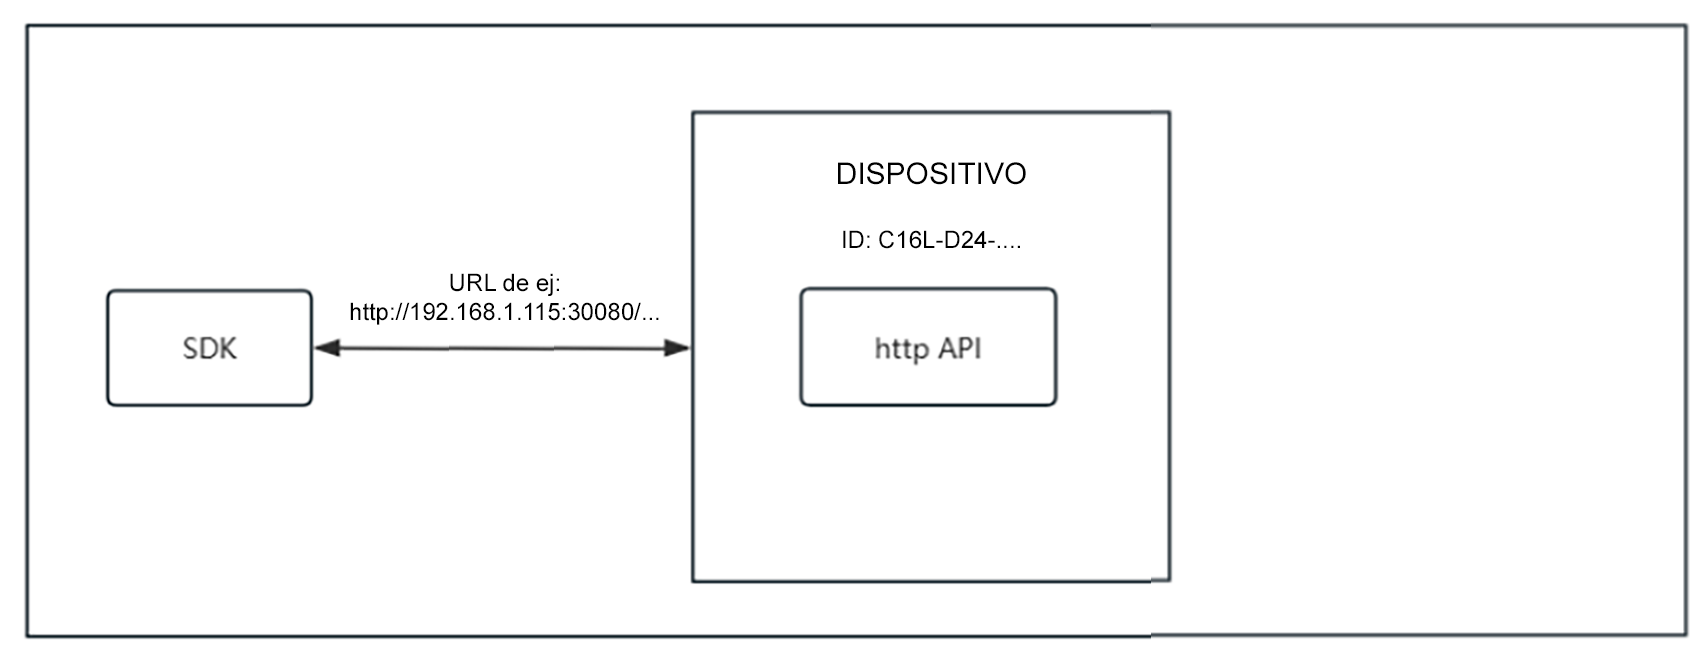
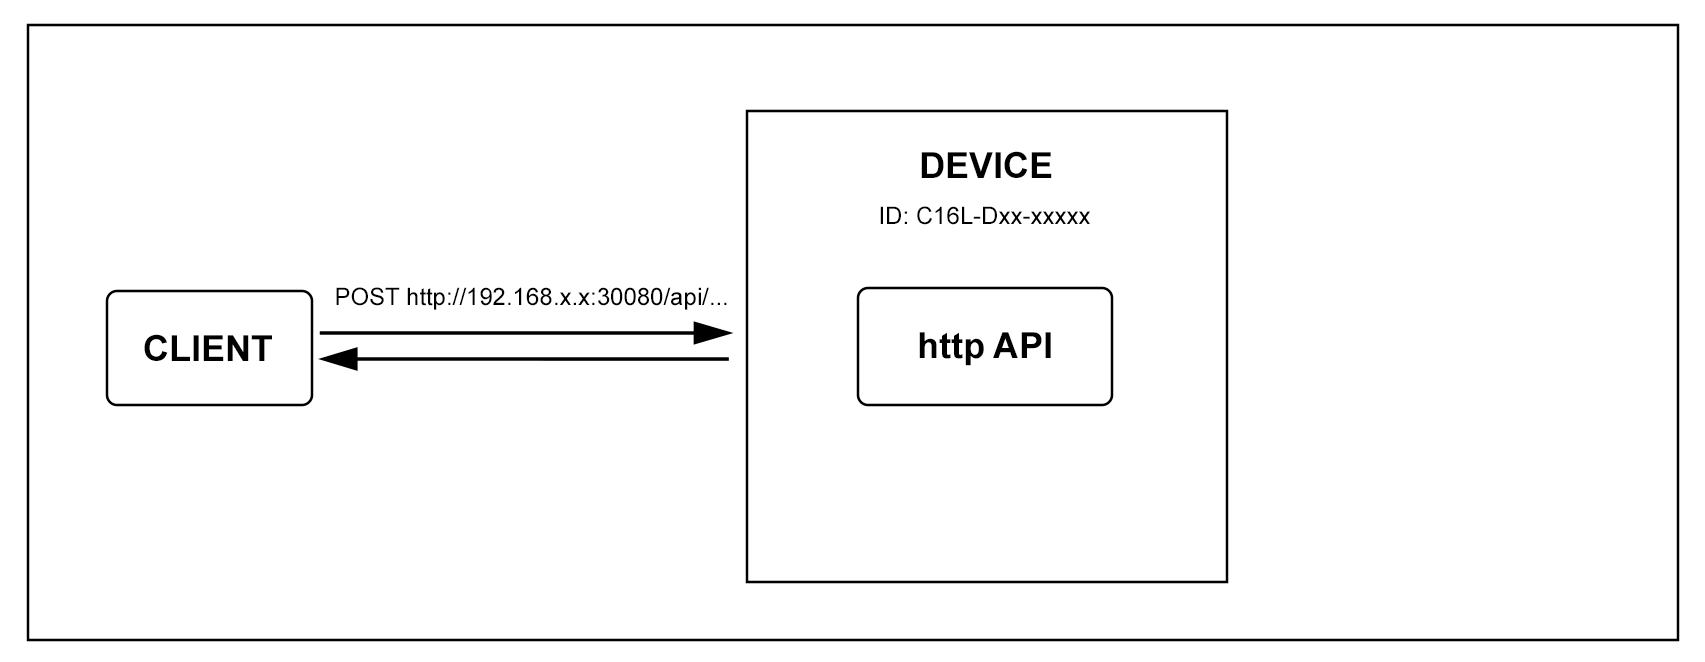
Various corrections

diff --git a/README.md b/README.md
@@ -1,6 +1,13 @@
 Documentación HTTP API para FULL COLOR SDK
 ---
 
+**Cambios recientes (04/06/2026)**
+- *API gateway ya disponible para instalar en su servidor*
+- Ya no es neceario un teléfono para el registro
+- Ejemplos para Postman corregidos
+- Correcciones varias
+
+
 # Contenido
 1. [Introducción](#1-introducción)
 2. [Cómo empezar a testear la API](#2-cómo-empezar-a-testear-la-api)
@@ -37,13 +44,13 @@ Anexo 2. [Guía rápida de HDPlayer](HDPLAYER-QUICKSTART.md)
 
 ## 1.1 Resumen
 
-Este manual detalla cómo usar la API para el desarrollo de integraciones con nuestras pantallas Full Color SDK.
+Este manual detalla cómo usar la API para el desarrollo de integraciones informáticas con nuestras pantallas Full Color SDK.
 
 Las pantallas Full Color SDK tienen habilitada tanto 1. la comunicación por protocolo SDK de código abierto (no especificado en este manual) como 2. por protocolo HTTP mediante la API que se detalla aquí.
 
-Tenga en cuenta que únicamente los dispositivos con una 'D' en medio de la ID del dispositivo tienen el hardware necesario para el SDK. Por ej. C16L-D24-00622.
+Tenga en cuenta que únicamente los dispositivos con una 'D' en medio de la ID del dispositivo tienen el hardware necesario para el SDK. Por ej. C16L-Dxx-xxxxx.
 
-Este manual explica en detalle las interfaces del sistema y se incluyen ejemplos de uso implementados en Postman, con los que el personal técnico podrá entenderlas rápidamente y empezar a desarrollar.
+Este manual explica en detalle las interfaces del sistema y se incluyen ejemplos de uso para Postman, con los que el personal técnico podrá entenderlas rápidamente y empezar a desarrollar.
 
 Los lectores deben tener conocimientos básicos de:
 1. Comprensión de los protocolos HTTPS/HTTP, etc.
@@ -61,7 +68,7 @@ La comunicación se realiza mediante solicitudes HTTP al puerto 30080 del dispos
 ![](images/Esquema%201.png)
 
 
-**Acceso indirecto mediante un servidor SDK (ubuntu/windows) con varios dispositivos (NO DISPONIBLE AÚN)**
+**Acceso indirecto mediante un API gateway (linux/windows/mac) con varios dispositivos (Ya disponible. Contacte con nosotros)**
 ![](images/Esquema%202.png)
 
 ## 1.3 Registrarse en la plataforma para obtener las claves sdkKey y sdkSecret
@@ -69,11 +76,11 @@ La comunicación se realiza mediante solicitudes HTTP al puerto 30080 del dispos
 La plataforma de registro no está abierta para el público aún. Los clientes que deseen desarrollar con la API deben registrarse con nosotros para que les facilitemos la clave pública y privada, llamadas `sdkKey` y `sdkSecret` respectivamente. 
 
 Los datos para el registro son:
-- Un teléfono
+- Un correo electrónico
 - Nombre del desarrollador
 - Nombre de la empresa
 
-Esto debe hacerse idealmente antes o durante el proceso de pedido de la pantalla, y quedan inicializadas en el propio dispositivo durante la fabricación. Si ha adquirido una pantalla para SDK pero no ha sido inicializada en su momento para la comunicación por API, contáctenos para ayudarle a activar la API.
+Esto debe hacerse idealmente antes o durante el proceso de pedido de la pantalla, y quedan inicializadas en el propio dispositivo durante la fabricación. Si ha adquirido una pantalla SDK pero no ha sido inicializada en su momento para la comunicación por API, contáctenos para ayudarle a activar la API.
 
 Estas claves son necesarias para el proceso de firma de la petición HTTP.
 
@@ -123,7 +130,7 @@ Respuesta:
 ## 3.2 Formas de especificar la ID
 >En caso de una conexión directa con un dispositivo no es obligatorio especificar la ID, excepto en algunos casos (véase "Método `getAll`").
 
-Para especificar el dispositivo que queremos controlar se pueden las siguientes formas:
+Para especificar el dispositivo que queremos controlar se pueden usar las siguientes formas:
 1. No especificar ID - /api/device/ Indica que operamos en el dispositivo local
 2. En la URL forma 1 - /api/device/C16L-D24-A0001,C16L-D24-A0002
 3. En la URL forma 2 - /api/device/?id=C16L-D24-A0001,C16L-D24-A0002
@@ -152,16 +159,22 @@ Hay dos reglas de firma:
 
 
 Donde:
+
 	`sign`: La firma calculada, agregado al encabezado de la solicitud HTTP
+    
 	`HMACMD5`: Función criptográfica HMAC-MD5
+    
     `body`: Todo el contenido del cuerpo de la solicitud HTTP
+    
     `date`: Hora y fecha actual del cliente, campo del encabezado HTTP
+    
     `sdkKey`: ofrecido durante el registro, campo del encabezado HTTP
+    
     `sdkSecret`: ofrecido durante el registro (clave secreta, no se transmite)
     
 
 ### 3.3.2 Regla 2 (Usada solo para la interfaz de archivos):
-Para la interfaz de archivos se deja el cuerpo de la solicitud fuera:
+Para la interfaz de archivos:
 
 `sign = HMACMD5(sdkKey + date, sdkSecret)`
 
